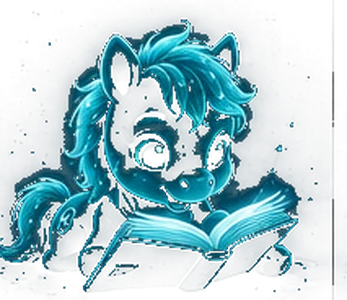
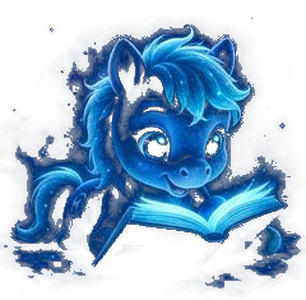
Add files via upload

diff --git a/lingo.html b/lingo.html
@@ -2336,7 +2336,7 @@ button{font-family:inherit;color:inherit;border:0;background:none;cursor:pointer
          destination que le paywall : une mascotte, trois portes, une idée.
          Tap → ouvrirCompte(), le compte (z70) passe devant l'intro (z45). -->
     <button id="inPass" type="button">
-      <img src="apy-passeport.webp?i=2" alt="" onerror="this.style.display='none'">
+      <img src="apy-passeport.webp?i=3" alt="" onerror="this.style.display='none'">
       <span class="pwPassTxt">
         <span class="pwPassL1" data-t="pwDeja">Déjà du voyage ?</span>
         <span class="pwPassL2" data-t="pwPasseport">Présente ton passeport</span>
@@ -2619,7 +2619,7 @@ button{font-family:inherit;color:inherit;border:0;background:none;cursor:pointer
       <!-- ⚠ ?i=2 : la premiere version (aquarelle claire) a ete remplacee le
            soir meme par la pose « Lecture » de la planche spectrale sombre —
            detourage net, style Linguae. Incrementer ?i a chaque remplacement. -->
-      <img id="pwPassImg" src="apy-passeport.webp?i=2" alt=""
+      <img id="pwPassImg" src="apy-passeport.webp?i=3" alt=""
            onerror="this.style.display='none'">
       <span class="pwPassTxt">
         <span class="pwPassL1" data-t="pwDeja">Déjà du voyage ?</span>
@@ -2635,7 +2635,7 @@ button{font-family:inherit;color:inherit;border:0;background:none;cursor:pointer
     <!-- 🟥 19/08 : Apy (pose Lecture, planche spectrale) au-dessus du titre —
          idee de Blandine : la meme mascotte accueille la creation de compte
          ET le paywall. Meme fichier, meme ?i. onerror : le texte vit seul. -->
-    <img class="paApy" src="apy-passeport.webp?i=2" alt=""
+    <img class="paApy" src="apy-passeport.webp?i=3" alt=""
          onerror="this.style.display='none'">
     <h2 data-t="paTitre">Ton passeport de voyage</h2>
     <p class="pwTxt" data-t="paTxt">Crée ton compte Hype avant de partir : ta progression, tes cartes postales et tes souvenirs te suivront partout, sur tous tes appareils.</p>
@@ -3722,7 +3722,10 @@ button{font-family:inherit;color:inherit;border:0;background:none;cursor:pointer
    C'est le TROISIÈME épisode du même piège (voir v46, v48, v50).
    Contrepartie assumée, la même à chaque fois : tout le reste des images
    se retélécharge une fois, pour tout le monde. */
-var VER = "?v=62";   /* 🟥 v62 (20/08) : les regles #inPass sorties du @keyframes ou elles
+var VER = "?v=63";   /* 🟥 v63 (20/08) : Apy passe a la version BLEU PROFOND retrouvee par
+                        Blandine (pose Lecture d'origine, dessinee sombre) — ?i=3 sur
+                        les QUATRE emplacements (3 <img> + le prechauffage).
+                        v62 (20/08) : les regles #inPass sorties du @keyframes ou elles
                         etaient tombees (Apy geante sur la presentation corrigee).
                         v61 (20/08) : la sync progression reessaie sans `sellerie` si la
                         colonne manque (8 jours de « base muette » soldes), le pont
@@ -11835,7 +11838,7 @@ function lancerFilm(){
   try{
     ["lingua-langues.webp","lingua-affiche.webp","fond-newmarket.webp",
      "tour-monde.webp?v=34","fond-lingua.webp","carnet-ferme.webp"+VER,
-     "apy-passeport.webp?i=2"].forEach(function(u){ (new Image()).src = u; });
+     "apy-passeport.webp?i=3"].forEach(function(u){ (new Image()).src = u; });
   }catch(e){}
 }
 
